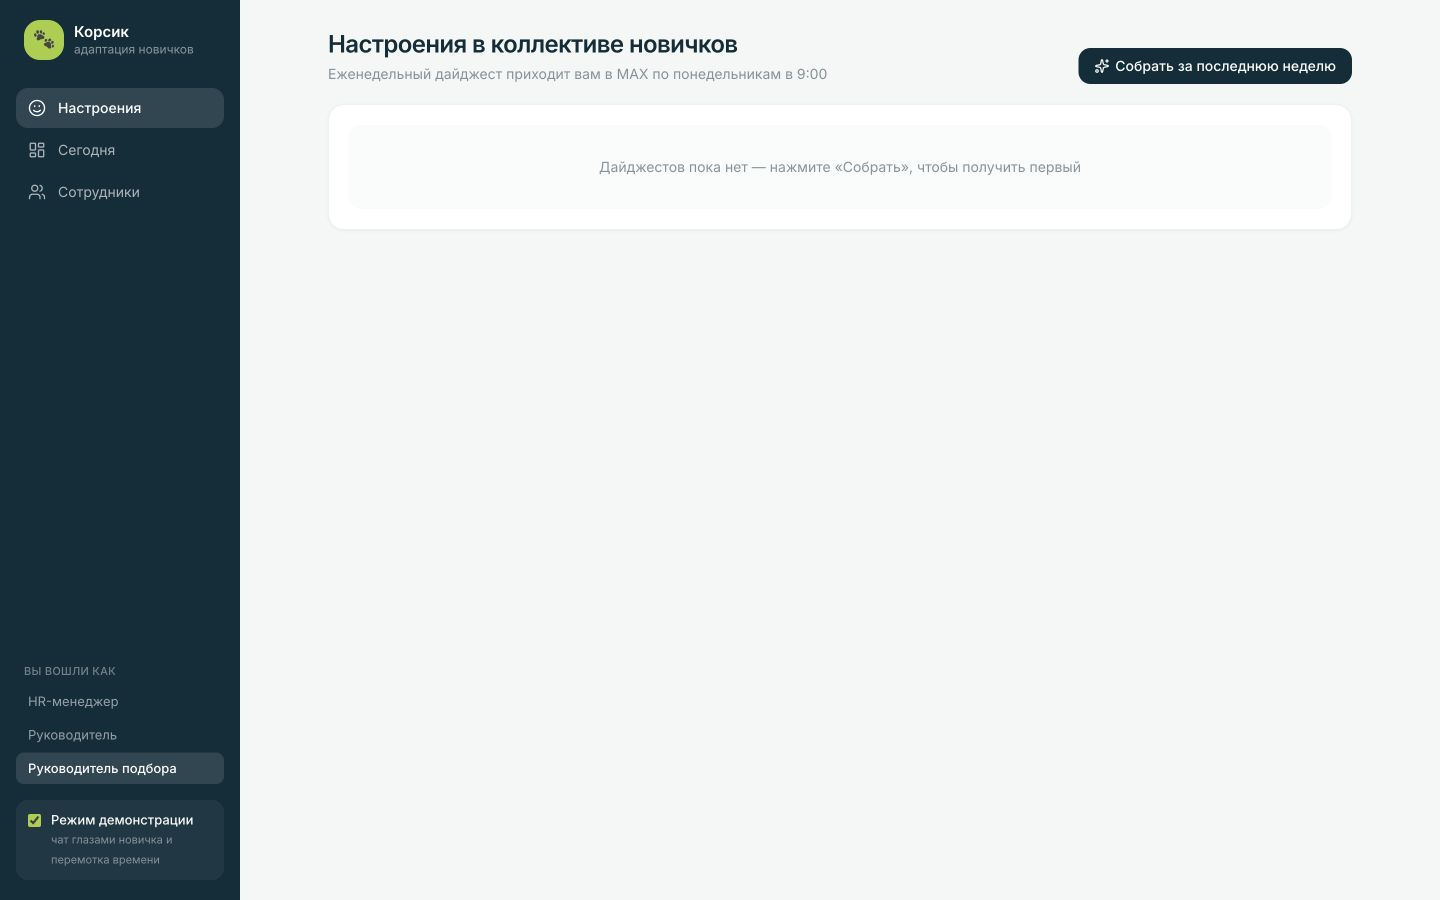
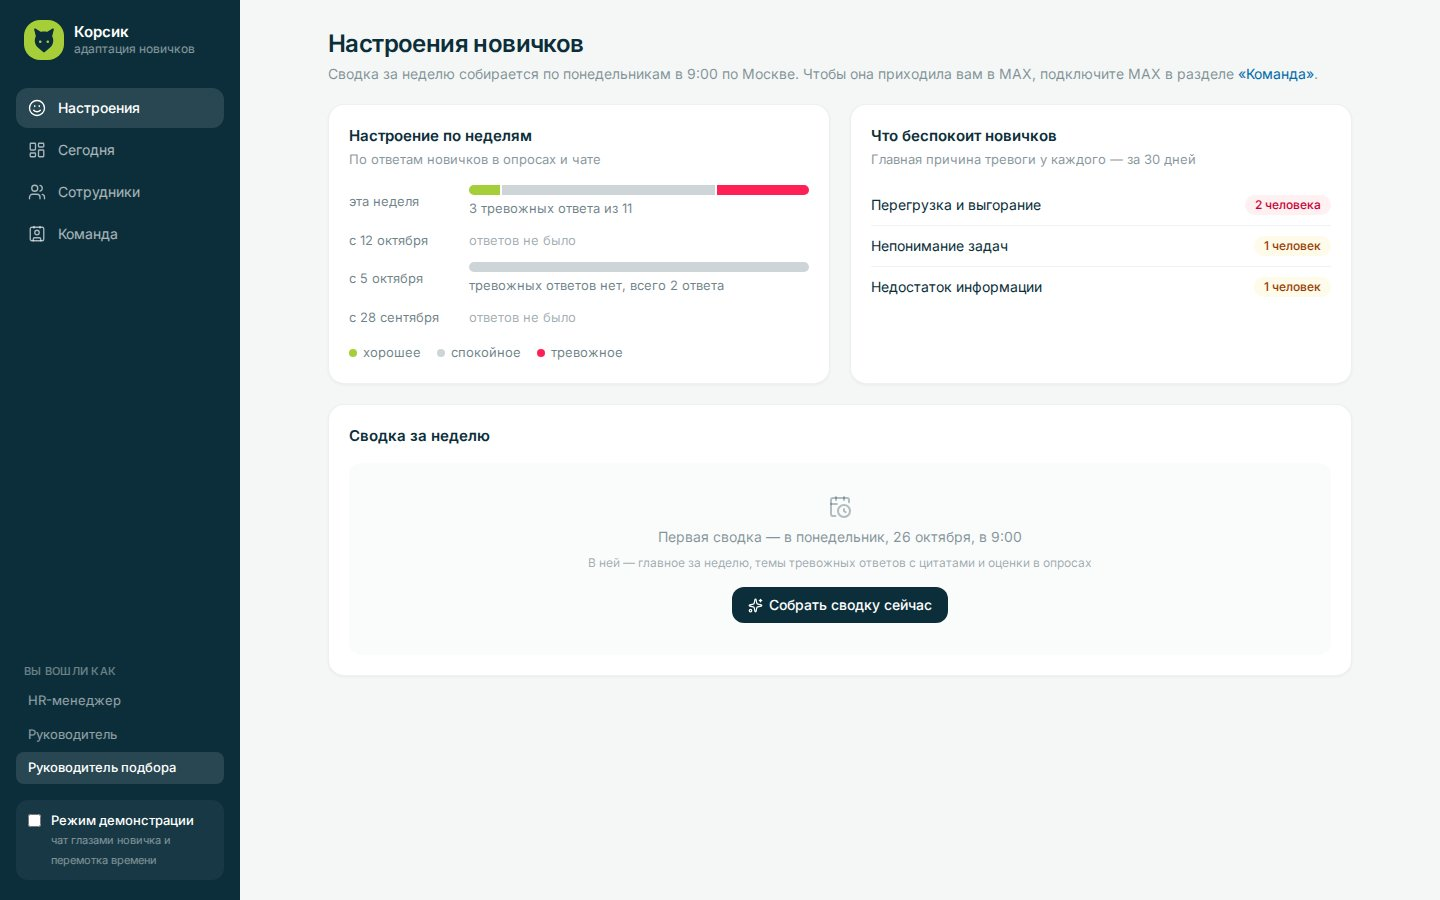
Переснять экраны панели для README на стенде из инструкции

diff --git a/README.md b/README.md
@@ -101,23 +101,25 @@ uv run python eval/run_eval.py --e2e
 
 ## Как выглядит панель
 
-Снимки работающей панели, 1440×900. Персонажи и обращения вымышлены: это локальная демонстрация, а не результаты пилота. Чат справа в карточке сотрудника — встроенный демо-чат, не снимок приложения MAX.
+Снимки сделаны на стенде из [полной демонстрации](#полная-демонстрация-с-локальными-моделями) после `seed.py kb`: открытая памятка, вымышленные сотрудники, модели на CPU, MAX не подключён. Это локальная демонстрация, а не результаты пилота. Чат справа в карточке сотрудника — встроенный демо-чат, не снимок приложения MAX.
 
-**Сегодня:** обращения, требующие ответа, сигналы из опросов и этапы адаптации.
+**Сегодня:** обращения, которые ждут ответа, кому нужна поддержка, на какие вопросы Корсик ответил сам и каких ответов не хватает в базе знаний.
 
-![Панель HR «Сегодня» с демо-обращением и сигналом о непонимании задач](docs/screenshots/today.jpg)
+![Панель HR «Сегодня»: обращения ждут ответа, ответы Корсика и вопросы, которых нет в базе знаний](docs/screenshots/today.jpg)
 
-**Карточка сотрудника:** путь адаптации и чат глазами новичка.
+**Карточка сотрудника:** путь адаптации и чат глазами новичка — вопрос вне памятки передан рекрутеру, ответ пришёл в тот же чат.
 
-![Карточка Петрова Ивана с таймлайном и приветствием Корсика в демо-чате](docs/screenshots/employee-chat.jpg)
+![Карточка Петрова Ивана: путь адаптации и демо-чат, где вопрос о парковке передан рекрутеру и пришёл его ответ](docs/screenshots/employee-chat.jpg)
 
-**Обращения:** контекст переписки и поле ответа HR в тот же диалог.
+**Обращения:** суть обращения, которую подготовил Корсик, переписка и ответ HR в тот же диалог.
 
-![Открытое демо-обращение Соколовой Ольги с просьбой уточнить задачи](docs/screenshots/tickets.jpg)
+![Обращение Морозовой Алины о перегрузке: суть от Корсика, срок ответа вышел, переписка](docs/screenshots/tickets.jpg)
 
-Другие экраны: [«Мои новички» руководителя](docs/screenshots/manager.jpg), [«Настроения»](docs/screenshots/mood.jpg), [«База знаний»](docs/screenshots/knowledge.jpg).
+**База знаний:** проверка ответа Корсика с цитатой из документа.
 
-На стенде для этих снимков MAX и языковая модель не подключены, документы не загружены. В карточке обращения показан резервный текст по сообщению сотрудника; «Настроения» и «База знаний» сняты в пустом состоянии. Снимки не подтверждают качество ответов модели или доставку в MAX — ограничения и замеры описаны выше.
+![«База знаний»: памятка обработана, ответ о сроке испытания с цитатой из памятки](docs/screenshots/knowledge.jpg)
+
+Другие экраны: [«Мои новички» руководителя](docs/screenshots/manager.jpg), [«Настроения»](docs/screenshots/mood.jpg).
 
 ## Где искать реализацию
 
